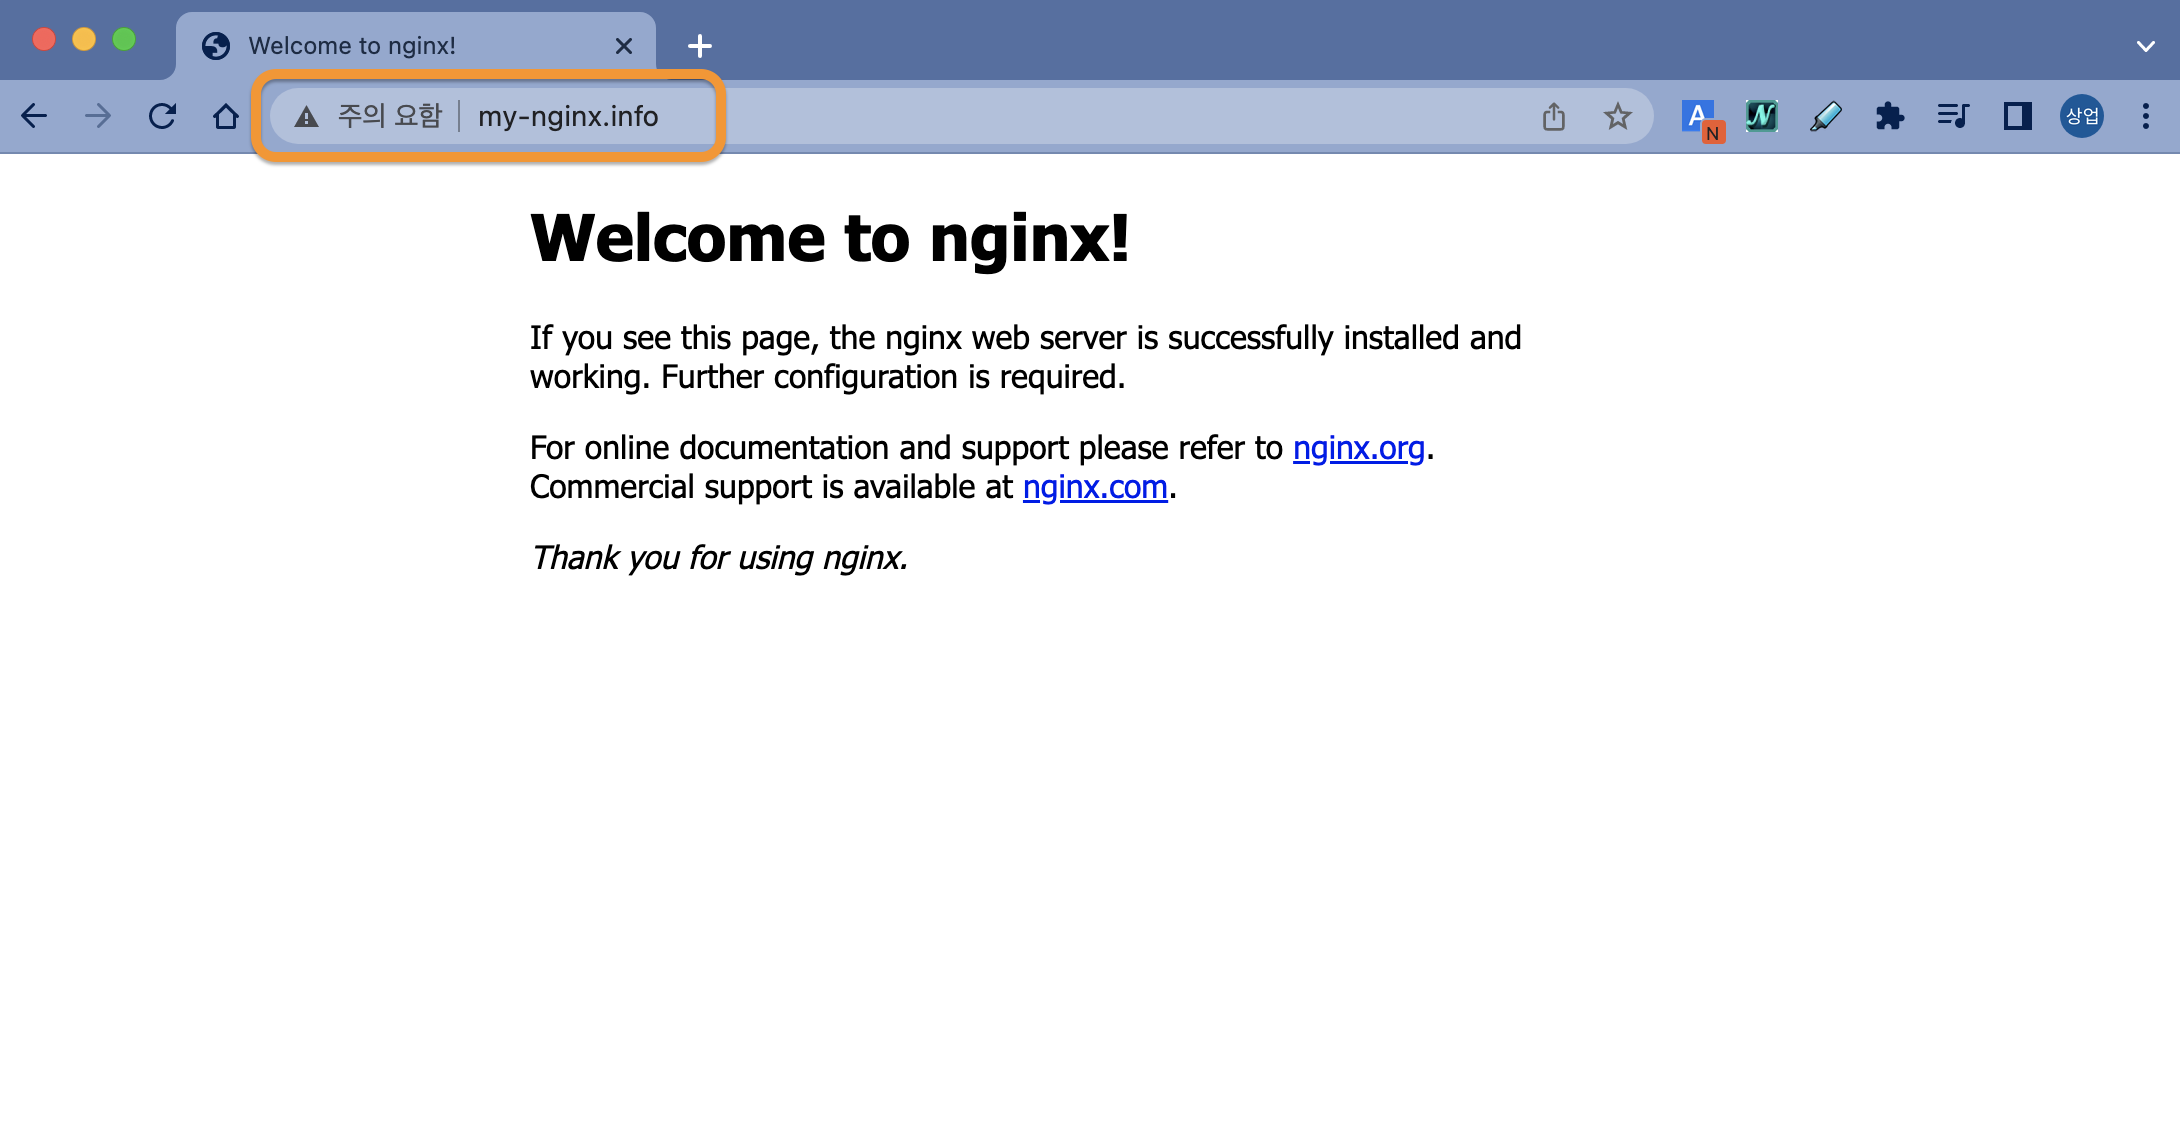
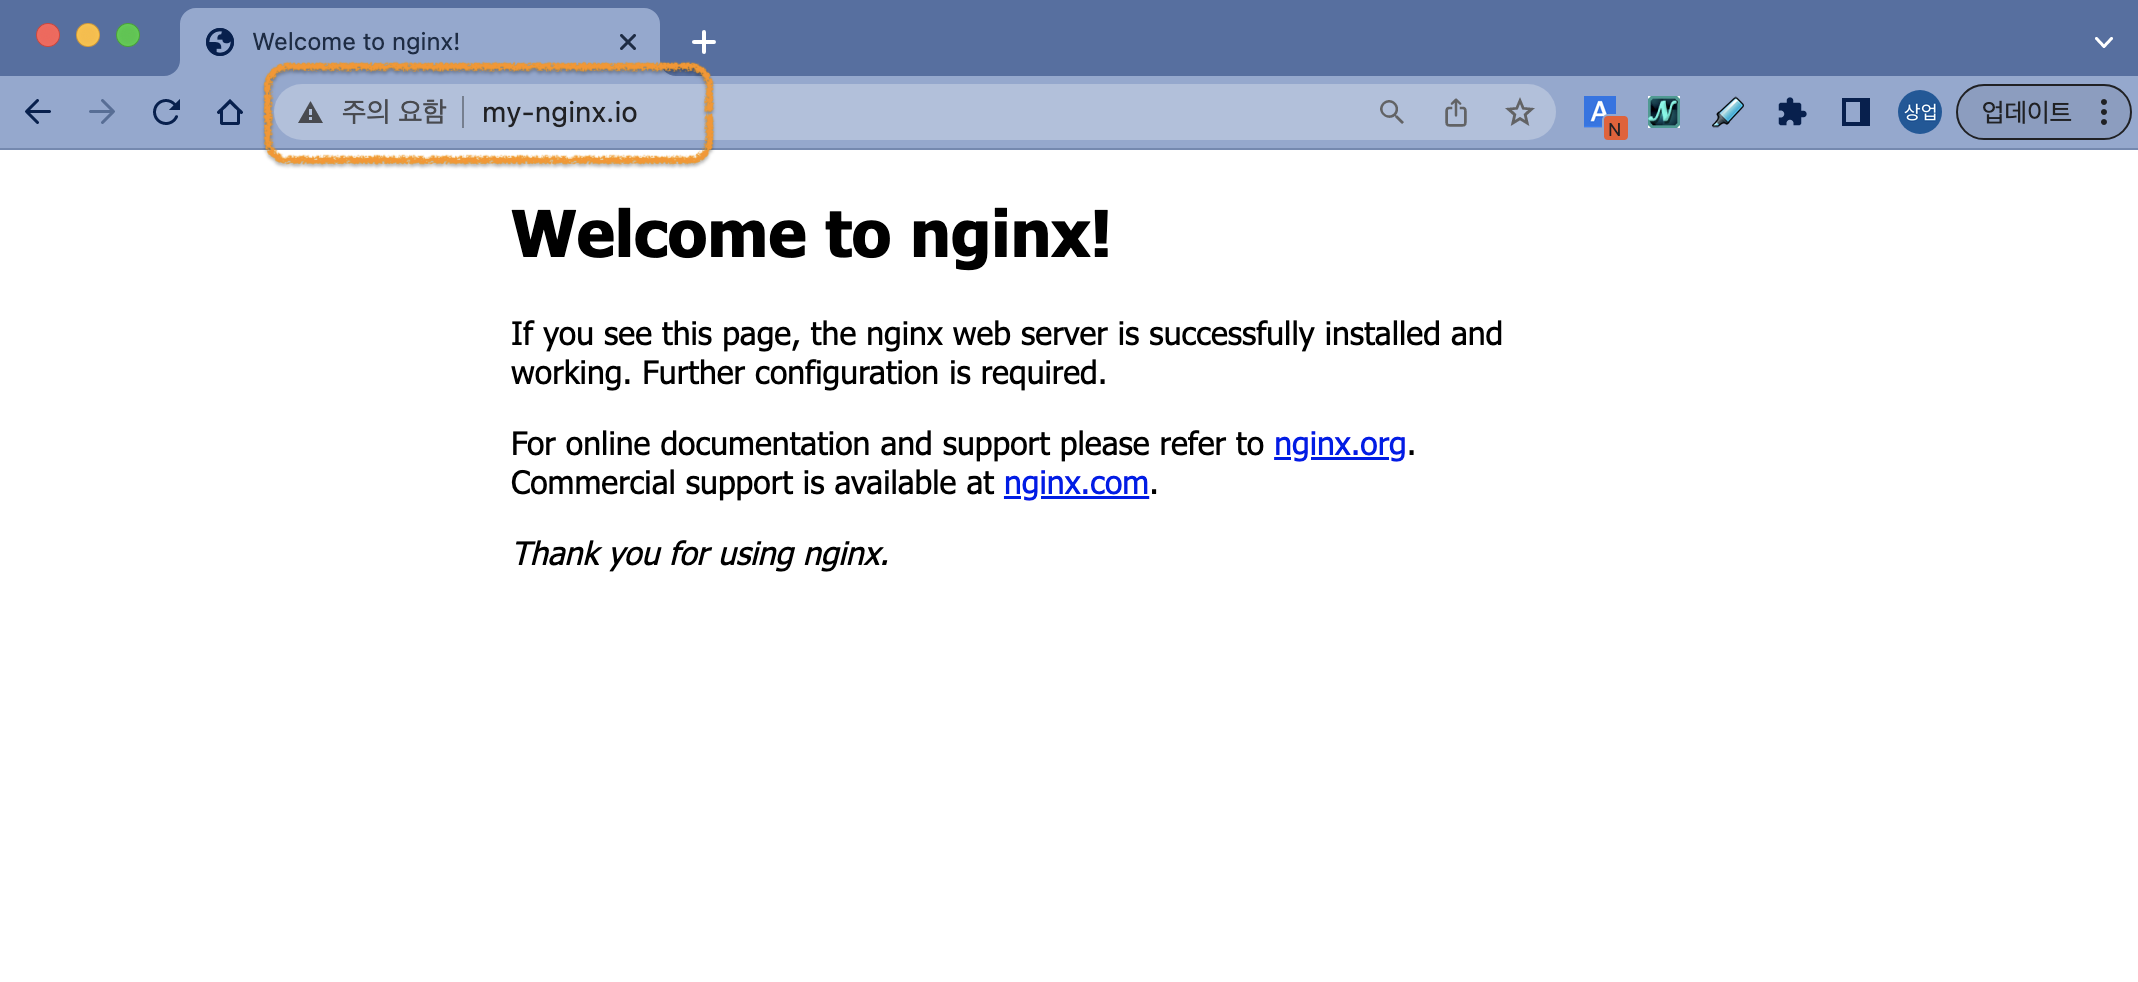
.

Changed region(s): [[0.0, 0.0, 1.0, 0.5193], [0.247, 0.5499, 0.4322, 0.5804]]

diff --git a/doc/[Hands-on] 10_Kubernetes_Service.md b/doc/[Hands-on] 10_Kubernetes_Service.md
@@ -417,7 +417,7 @@ ingress.networking.k8s.io/my-nginx-ingress created
 자 이제 정말로 모두 준비가 됐습니다.  
 웹 브라우저에서 아래 URL로 접속해보세요.
 
-http://my-nginx.info
+http://my-nginx.io
 
 ![h:300](./img/k8s_nginx_ingress.png)
 
